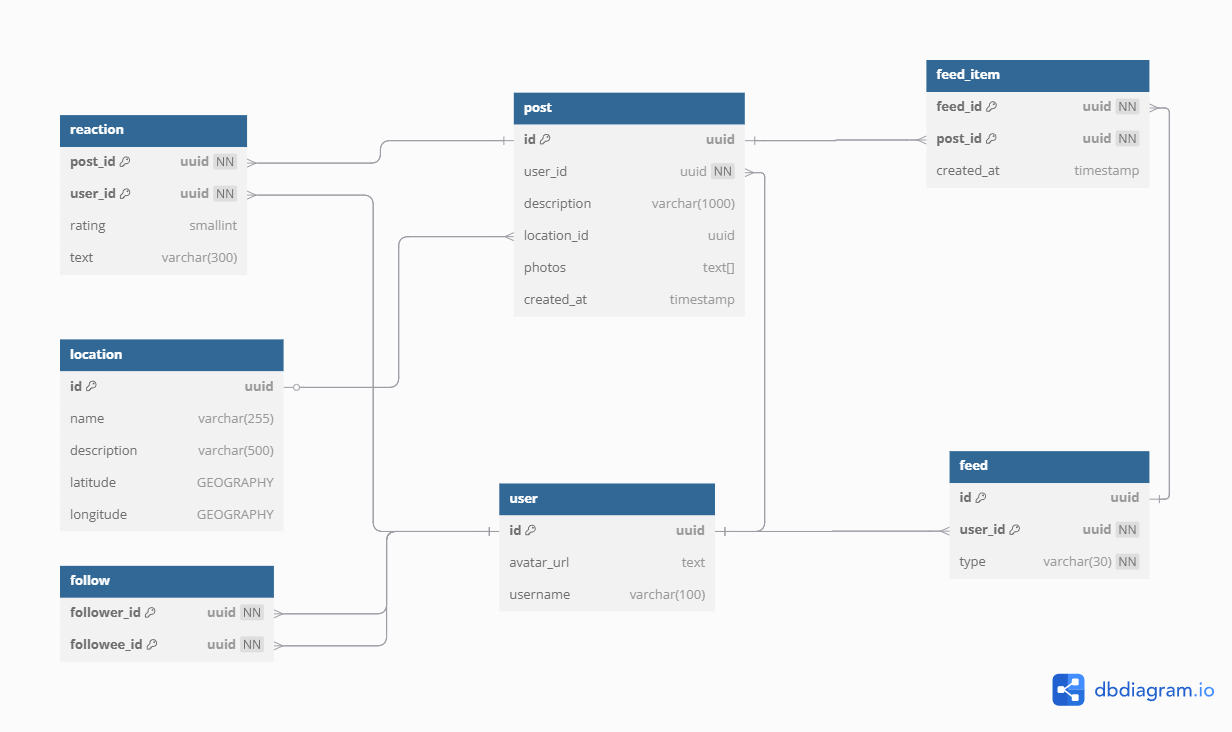
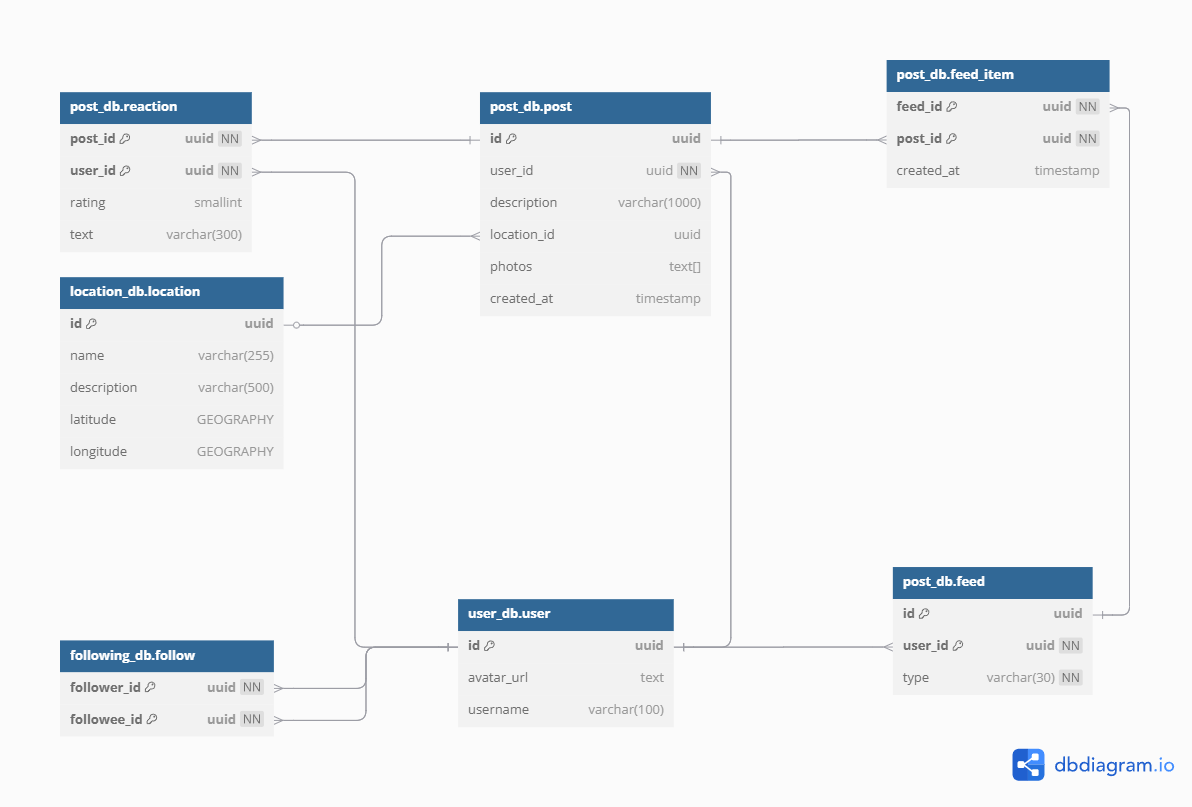
split database

diff --git a/database/README.md b/database/README.md
@@ -30,13 +30,6 @@ SSD(nVME):
 Решение: можно горячие данные хранить на ssd, а остальную часть на hdd.
 Например:
 8 SSD nVME по 15.37 Tb + 81 HDD по 18 ТБ.
-Disks_for_capacity = 1089 TB / (15.36TB * 8) + (18TB * 54) = 0.99
-Disks_for_throughput = 28.2 GB/s / (3 GB/s * 8) + (54 * 100Mb/s) = 0.96
-Disks_for_iops = 618 / (10000 * 8) + (54 * 100) = 0,0072
-
-0.99 < 1
-0.96 < 1
-0.0072 <1 
 ```
 
 #### Реакции
@@ -78,8 +71,8 @@ Disks = max(ceil(0.58), ceil(0.00004), ceil(0.24)) = 1
 
 Решение: 1 HDD на 16Гб
 
-Т.к. подписки не требуют большого объёма и пропускной способности и iops, 
-то можно разместить их на другой диск и не покупать отдельный для них.
+Можно разместить "подписки" на диск где находятся "реакции",
+т.к. там есть запас памяти/iops/throughput, чтоб диск отдельно для подписок не покупать.
 ```
 #### Локации
 
